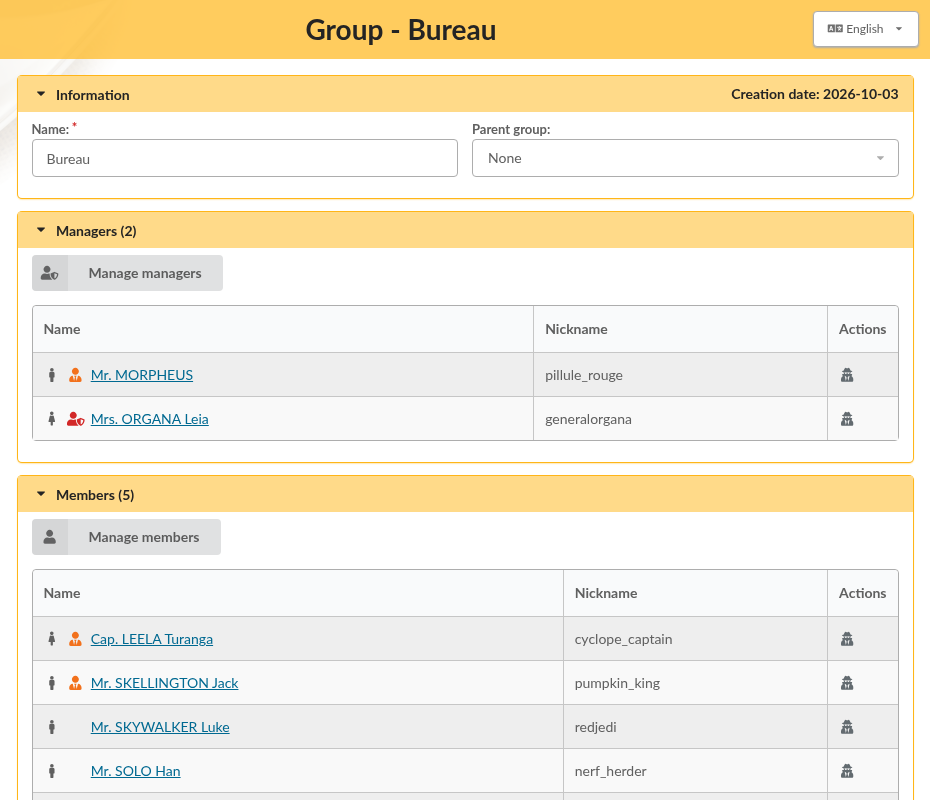
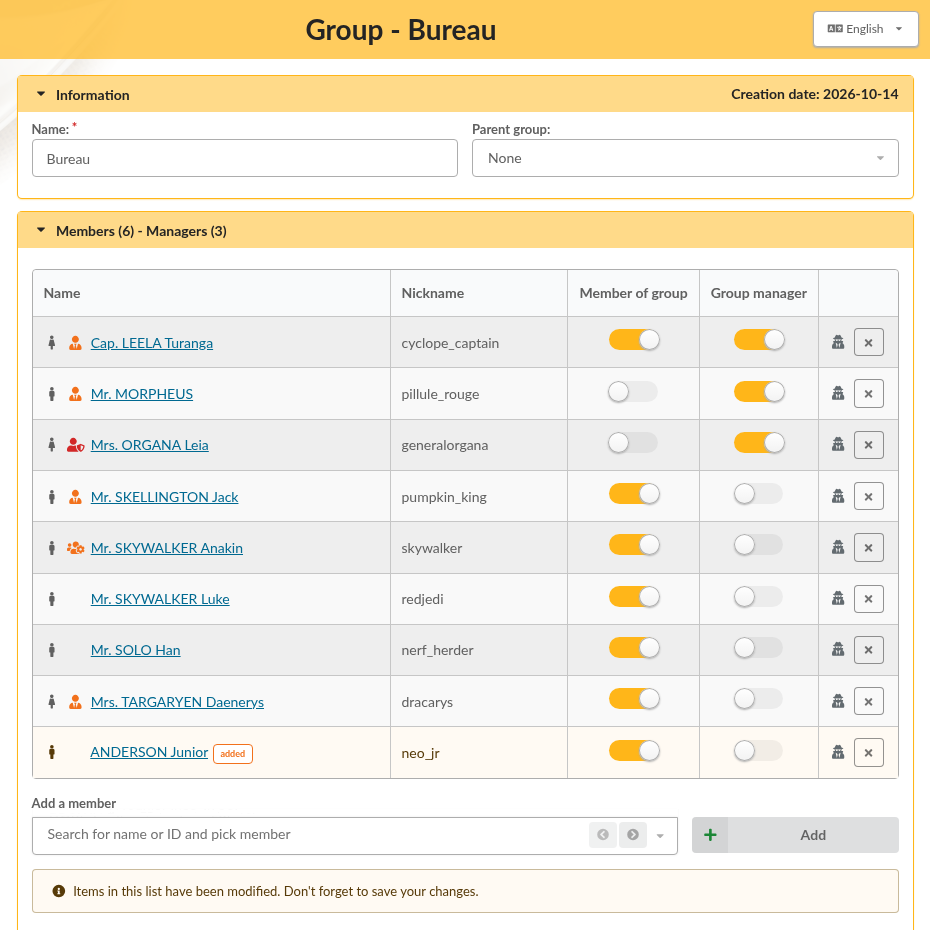
Document the members and managers table of groups, update screenshots

diff --git a/source/usermanual/groups.rst b/source/usermanual/groups.rst
@@ -37,12 +37,27 @@ Click on the edit icon of a group to see and change it.
    :alt: Editing a group
 
 * **Information**: the name of the group, and its **Parent group** if it is a subgroup,
-* **Managers**: the members who manage the group. Click on **Manage managers** to add or remove some,
-* **Members**: the members of the group. Click on **Manage members** to add or remove some.
+* **Members - Managers**: one line per person attached to the group, with two switches: **Member of group** and **Group manager**. A person can be both.
 
-In both cases, a window opens with the list of members: click on a row to select a member, or to unselect them, then close the window. Do not forget to save the group afterwards.
+To change who belongs to the group:
 
-Groups can also be changed from a member card: the **Groups:** part of the member form lists the groups the member belongs to and the groups they manage.
+* to add someone, search for them in **Add a member**, then click on **Add**: they are added as a member of the group; switch on **Group manager** to make them a manager too,
+* to change the role of someone already listed, use the switches of their line,
+* to remove someone from the group, click on the cross at the end of their line. Click on **Cancel** to keep them after all.
+
+Changed lines are labelled (*added*, *changed*, *will be removed*), and a message reminds you that nothing is stored yet: click on **Save** to keep your changes.
+
+Only administrators and staff members can change the members and managers from this page. Group managers see the list, but change the members of their groups from the member cards.
+
+.. versionchanged:: 1.3.1
+   Members and managers are listed in a single table, instead of being selected in a separate window. Groups of a member card work the same way.
+
+Groups can also be changed from a member card: the **Groups** part of the member form lists the groups the member belongs to and the groups they manage, with the same switches. Pick a group in **Add to group** and click on **Add** to attach the member to another group.
+
+.. image:: ../_styles/static/images/usermanual/member_groups.png
+   :scale: 50%
+   :align: center
+   :alt: Groups of a member
 
 Several members at once
 =======================
